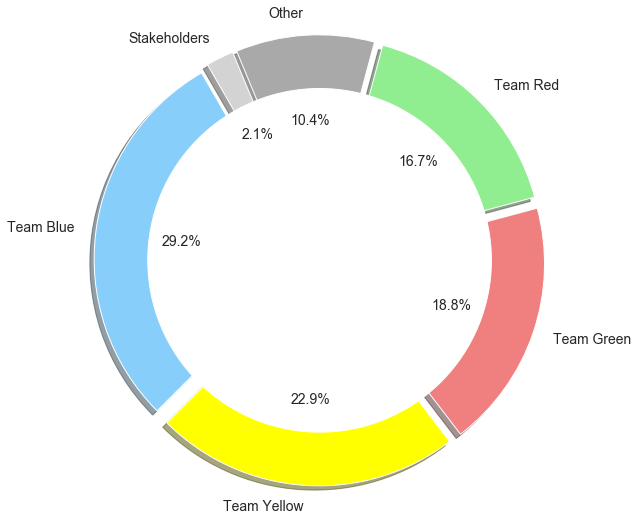
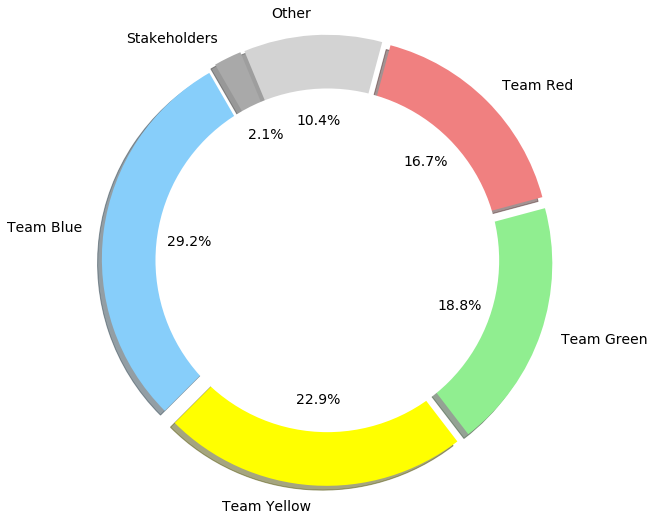
corrected color

diff --git a/README.md b/README.md
@@ -1,0 +1,14 @@
+# stats
+## health check stats
+
+To run notebook: 
+* open https://mybinder.org/v2/gh/marisly/stats/master
+* Wait untill the "Starting repository: marisly/stats/master" finishes 
+* Upload file with poll results in the same format as mShop PI 3 Health Check (Responses) - Form responses 1 (Final).csv
+* Open charts.ipynb
+* Correct ln[2] - and write filename of the new CSV file. 
+* Click Cell Menu > Run All 
+
+All charts will load in a minute 
+
+All png images written to the folder: \PI3
